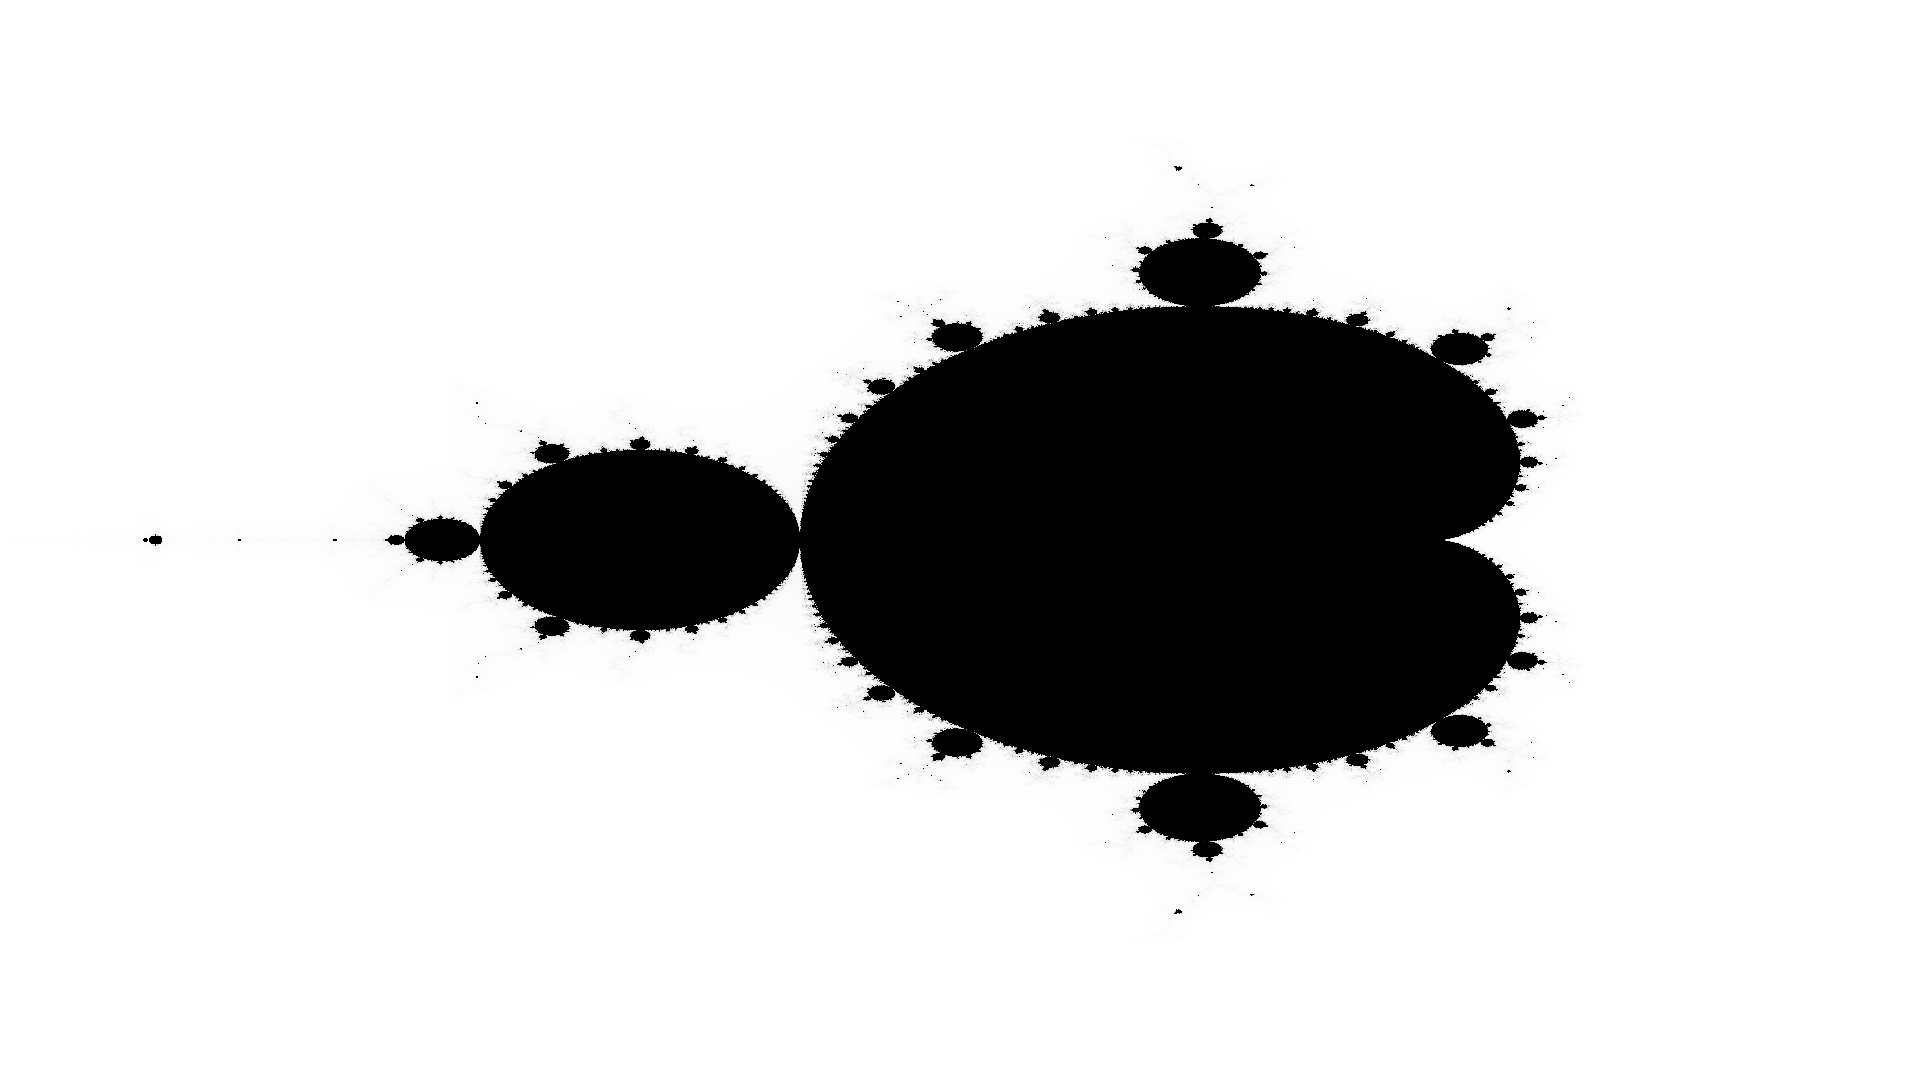
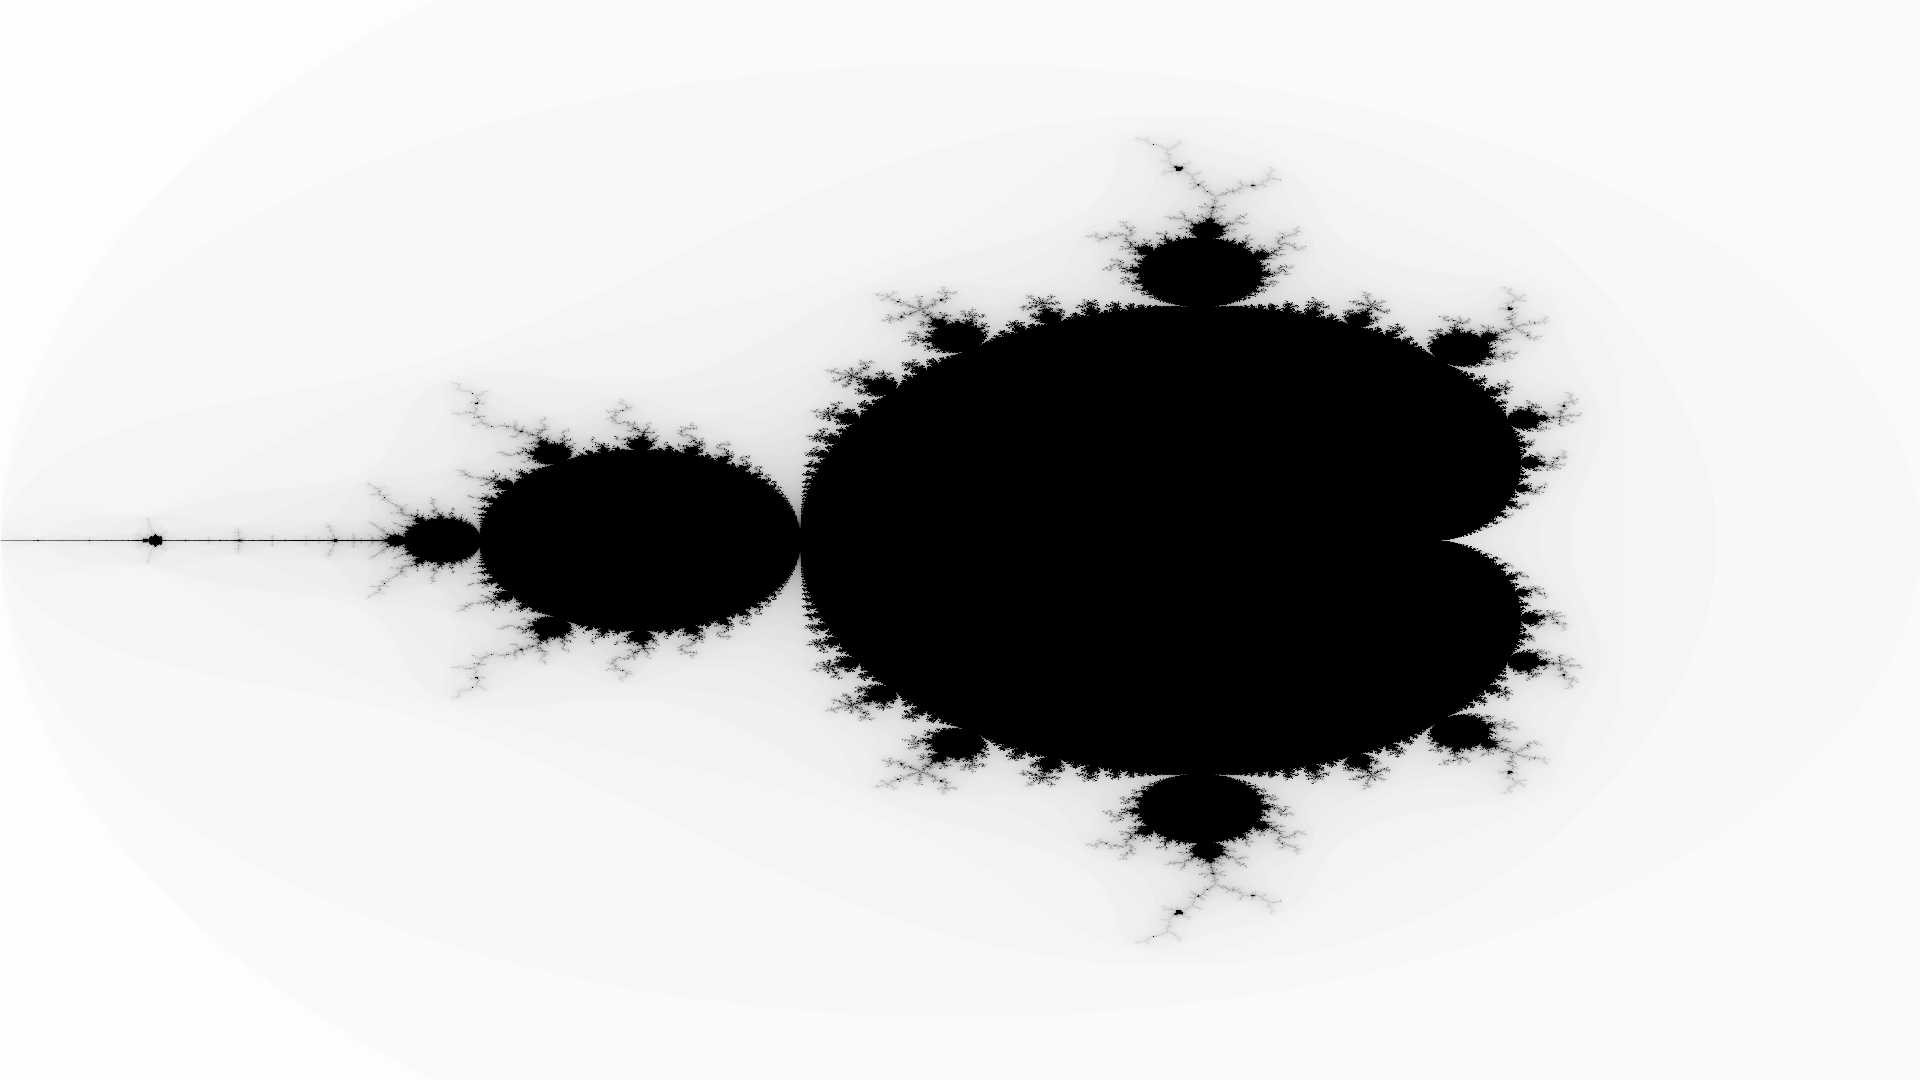
changed interpolation calculation of python proof of concept

Changed region(s): [[0.0625, 0.1222, 0.8438, 0.8861], [0.75, 0.4889, 0.7812, 0.5194]]

diff --git a/concept-proof.py b/concept-proof.py
@@ -6,7 +6,10 @@ width, height = 1920, 1080
 real_min, real_max = -2.0, 1.0
 imag_min, imag_max = -1.5, 1.5
 
-max_iterations = 1000
+real_inc = (real_max - real_min) / width
+imag_inc = (imag_max - imag_min) / height
+
+max_iterations = 100
 
 def mandelbrot(c):
     z = 0
@@ -18,12 +21,16 @@ def mandelbrot(c):
 
 image = Image.new('RGB', (width, height))
 
+real = real_min
+
 for px in range(width):
+    imag = imag_min
     for py in range(height):
-        a = real_min + (px / (width - 1)) * (real_max - real_min)
-        b = imag_min + (py / (height - 1)) * (imag_max - imag_min)
-        c = complex(a, b)
+        c = complex(real, imag)
         m = mandelbrot(c)
         color = 255 - int(m * 255 / max_iterations)
         image.putpixel((px, py), (color, color, color))
+        imag += imag_inc
+    real += real_inc
+    
 image.save('mandelbrot.png')
